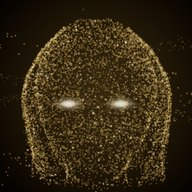
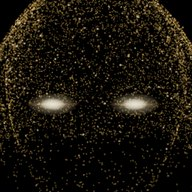
Bigger particle head, just the head (no neck, ends at the chin), no orange light streaks, shorter eye flares; the face moves up for answer cards by its measured size at S21 dimensions

diff --git a/app/src/main/assets/www/index.html b/app/src/main/assets/www/index.html
@@ -261,10 +261,6 @@ const glowTex = makeGlowTexture();
 const flareTex = (() => { const c = document.createElement('canvas'); c.width = 256; c.height = 32; const g = c.getContext('2d');
   const h = g.createLinearGradient(0, 0, 256, 0); h.addColorStop(0, 'rgba(255,200,120,0)'); h.addColorStop(0.5, 'rgba(255,240,210,1)'); h.addColorStop(1, 'rgba(255,200,120,0)');
   g.fillStyle = h; g.fillRect(0, 15, 256, 2); return new THREE.CanvasTexture(c); })();
-const rayTex = (() => { const c = document.createElement('canvas'); c.width = 64; c.height = 64; const g = c.getContext('2d');   // soft on every side; the sprite stretches it tall
-  const v = g.createRadialGradient(32, 32, 0, 32, 32, 32); v.addColorStop(0, 'rgba(255,225,170,1)'); v.addColorStop(1, 'rgba(255,200,120,0)');
-  g.fillStyle = v; g.fillRect(0, 0, 64, 64); return new THREE.CanvasTexture(c); })();
-
 scene.add(new THREE.AmbientLight(0xffffff, 0.55));
 const keyLight = new THREE.DirectionalLight(0xfff2e0, 2.2); keyLight.position.set(3, 7, 6); scene.add(keyLight);
 const fillLight = new THREE.DirectionalLight(0xbcd4ff, 0.9); fillLight.position.set(-4, 5, 5); scene.add(fillLight);
@@ -361,7 +357,7 @@ function makeGoldenParticleFace(model) {
   const pA = new THREE.Vector3(), pB = new THREE.Vector3(), pC = new THREE.Vector3();
   const localA = new THREE.Vector3(), localB = new THREE.Vector3(), localC = new THREE.Vector3();
   let totalArea = 0;
-  const head = model.userData.jvHead, minY = head ? head.neck : 0.18, eyeMeshes = [];
+  const head = model.userData.jvHead, minY = head ? head.neck : 0.18, eyeMeshes = [], span = head ? head.top - head.neck : 1;
   const mid = head ? new THREE.Vector3(head.cx || 0, head.neck + (head.top - head.neck) * 0.55, head.cz || 0) : null, nrm = new THREE.Vector3(), toMid = new THREE.Vector3();
   model.traverse(mesh => {
     if (!(mesh.isMesh || mesh.isSkinnedMesh) || !mesh.geometry || !mesh.geometry.attributes.position) return;
@@ -380,6 +376,7 @@ function makeGoldenParticleFace(model) {
       localA.copy(pA).applyMatrix4(invRoot); localB.copy(pB).applyMatrix4(invRoot); localC.copy(pC).applyMatrix4(invRoot);
       const cy = (localA.y + localB.y + localC.y) / 3;
       if (cy < minY) continue;
+      if (head && cy < head.neck + span * 0.32 && (localA.z + localB.z + localC.z) / 3 < (head.cz || 0) + span * 0.18) continue;   // the neck (low and set back): just the head, down to the chin
       nrm.copy(localB).sub(localA).cross(toMid.copy(localC).sub(localA));
       const area = nrm.length() * 0.5;
       if (area < 1e-9) continue;
@@ -423,11 +420,11 @@ function makeGoldenParticleFace(model) {
       const eye = new THREE.Sprite(new THREE.SpriteMaterial({ map: glowTex, color: 0xfff1d0, transparent: true, depthWrite: false, blending: THREE.AdditiveBlending }));
       eye.position.copy(at); eye.scale.set(r * 1.2, r * 0.55, 1); model.add(eye);   // oval, like a human eye
       const flare = new THREE.Sprite(new THREE.SpriteMaterial({ map: flareTex, color: 0xffc66e, transparent: true, depthWrite: false, blending: THREE.AdditiveBlending }));
-      flare.position.copy(at); flare.scale.set(r * 2.0, r * 0.4, 1); model.add(flare);   // a thin lens flare across each eye
+      flare.position.copy(at); flare.scale.set(r * 1.4, r * 0.35, 1)   /* short: two flares, never one line */; model.add(flare);   // a thin lens flare across each eye
     }
   }
-  if (head) {                                    // the epic part: sparkles on the face, orbiting gold dust, light falling through the dark
-    const span = head.top - head.neck, mid = new THREE.Vector3(cx, head.neck + span * 0.55, head.cz || 0), mat = (size, color) => new THREE.PointsMaterial({
+  if (head) {                                    // the epic part: sparkles on the face and orbiting gold dust
+    const mid = new THREE.Vector3(cx, head.neck + span * 0.55, head.cz || 0), mat = (size, color) => new THREE.PointsMaterial({
       color, size, map: glowTex, transparent: true, opacity: 1, blending: THREE.AdditiveBlending, depthWrite: false, sizeAttenuation: true });
     const spark = [0, 1].map(() => { const n = 110, p = new Float32Array(n * 3);
       for (let i = 0; i < n; i++) { const k = Math.floor(Math.random() * count) * 3; p[i*3] = points[k]; p[i*3+1] = points[k+1]; p[i*3+2] = points[k+2]; }
@@ -443,14 +440,7 @@ function makeGoldenParticleFace(model) {
       const g = new THREE.BufferGeometry(); g.setAttribute('position', new THREE.BufferAttribute(p, 3));
       const ring = new THREE.Points(g, mat(0.014, 0xffcf7a)); ring.frustumCulled = false; ring.rotation.y = Math.random() * 6; orbit.add(ring);
     }
-    const rays = [];
-    for (let i = 0; i < 7; i++) {
-      const ray = new THREE.Sprite(new THREE.SpriteMaterial({ map: rayTex, color: 0xffc66e, transparent: true, depthWrite: false, blending: THREE.AdditiveBlending }));
-      ray.userData.o = 0.15 + Math.random() * 0.3; ray.scale.set(span * 0.05, span * (0.25 + Math.random() * 0.3), 1);
-      ray.position.set(cx + (Math.random() < 0.5 ? -1 : 1) * span * (0.65 + Math.random() * 0.45), mid.y + (Math.random() * 3.2 - 1.6) * span, mid.z - Math.random() * span);
-      model.add(ray); rays.push(ray);
-    }
-    particleFx = { spark, orbit, rays, span, mid };
+    particleFx = { spark, orbit };
   }
   return cloud;
 }
@@ -458,7 +448,7 @@ function makeGoldenParticleFace(model) {
 
 // Finds the head (from the neck to the top) by the model's width, slice by slice from the top down: below the head the
 // width narrows to the neck, then grows at the shoulders (or jumps at outstretched arms). Added by make_www.py.
-const HEAD_UNITS = 1.05, HEAD_CENTER_Y = 4.37;      // where Adam's head has always been
+const HEAD_UNITS = 1.55, HEAD_CENTER_Y = 4.37;      // a big head: the particle face is the whole screen (measured at S21 size)
 function frameByHead(model) {
   try {
     const known = model.userData && model.userData.jvHead;                 // our own faces say where their head is (tools/faces)
@@ -655,7 +645,6 @@ function applyColors() {
     const t = performance.now() / 1000, f = particleFx;
     f.spark.forEach((o, i) => { o.material.opacity = avatarAlpha * (0.55 + 0.45 * Math.sin(t * 1.7 + i * 3.1)); });
     f.orbit.rotation.y = t * 0.12 * currentSpinMul * 2.5; f.orbit.rotation.z = 0.12 * Math.sin(t * 0.2);
-    for (const r of f.rays) { r.position.y -= f.span * 0.003; if (r.position.y < f.mid.y - f.span * 1.8) r.position.y = f.mid.y + f.span * 1.8; r.material.opacity = avatarAlpha * r.userData.o; }
   }
 }
 const _tmpQ = new THREE.Quaternion(), _tmpE = new THREE.Euler();

diff --git a/pc_source/index.html b/pc_source/index.html
@@ -233,10 +233,6 @@ const glowTex = makeGlowTexture();
 const flareTex = (() => { const c = document.createElement('canvas'); c.width = 256; c.height = 32; const g = c.getContext('2d');
   const h = g.createLinearGradient(0, 0, 256, 0); h.addColorStop(0, 'rgba(255,200,120,0)'); h.addColorStop(0.5, 'rgba(255,240,210,1)'); h.addColorStop(1, 'rgba(255,200,120,0)');
   g.fillStyle = h; g.fillRect(0, 15, 256, 2); return new THREE.CanvasTexture(c); })();
-const rayTex = (() => { const c = document.createElement('canvas'); c.width = 64; c.height = 64; const g = c.getContext('2d');   // soft on every side; the sprite stretches it tall
-  const v = g.createRadialGradient(32, 32, 0, 32, 32, 32); v.addColorStop(0, 'rgba(255,225,170,1)'); v.addColorStop(1, 'rgba(255,200,120,0)');
-  g.fillStyle = v; g.fillRect(0, 0, 64, 64); return new THREE.CanvasTexture(c); })();
-
 scene.add(new THREE.AmbientLight(0xffffff, 0.55));
 const keyLight = new THREE.DirectionalLight(0xfff2e0, 2.2); keyLight.position.set(3, 7, 6); scene.add(keyLight);
 const fillLight = new THREE.DirectionalLight(0xbcd4ff, 0.9); fillLight.position.set(-4, 5, 5); scene.add(fillLight);
@@ -333,7 +329,7 @@ function makeGoldenParticleFace(model) {
   const pA = new THREE.Vector3(), pB = new THREE.Vector3(), pC = new THREE.Vector3();
   const localA = new THREE.Vector3(), localB = new THREE.Vector3(), localC = new THREE.Vector3();
   let totalArea = 0;
-  const head = model.userData.jvHead, minY = head ? head.neck : 0.18, eyeMeshes = [];
+  const head = model.userData.jvHead, minY = head ? head.neck : 0.18, eyeMeshes = [], span = head ? head.top - head.neck : 1;
   const mid = head ? new THREE.Vector3(head.cx || 0, head.neck + (head.top - head.neck) * 0.55, head.cz || 0) : null, nrm = new THREE.Vector3(), toMid = new THREE.Vector3();
   model.traverse(mesh => {
     if (!(mesh.isMesh || mesh.isSkinnedMesh) || !mesh.geometry || !mesh.geometry.attributes.position) return;
@@ -352,6 +348,7 @@ function makeGoldenParticleFace(model) {
       localA.copy(pA).applyMatrix4(invRoot); localB.copy(pB).applyMatrix4(invRoot); localC.copy(pC).applyMatrix4(invRoot);
       const cy = (localA.y + localB.y + localC.y) / 3;
       if (cy < minY) continue;
+      if (head && cy < head.neck + span * 0.32 && (localA.z + localB.z + localC.z) / 3 < (head.cz || 0) + span * 0.18) continue;   // the neck (low and set back): just the head, down to the chin
       nrm.copy(localB).sub(localA).cross(toMid.copy(localC).sub(localA));
       const area = nrm.length() * 0.5;
       if (area < 1e-9) continue;
@@ -395,11 +392,11 @@ function makeGoldenParticleFace(model) {
       const eye = new THREE.Sprite(new THREE.SpriteMaterial({ map: glowTex, color: 0xfff1d0, transparent: true, depthWrite: false, blending: THREE.AdditiveBlending }));
       eye.position.copy(at); eye.scale.set(r * 1.2, r * 0.55, 1); model.add(eye);   // oval, like a human eye
       const flare = new THREE.Sprite(new THREE.SpriteMaterial({ map: flareTex, color: 0xffc66e, transparent: true, depthWrite: false, blending: THREE.AdditiveBlending }));
-      flare.position.copy(at); flare.scale.set(r * 2.0, r * 0.4, 1); model.add(flare);   // a thin lens flare across each eye
+      flare.position.copy(at); flare.scale.set(r * 1.4, r * 0.35, 1)   /* short: two flares, never one line */; model.add(flare);   // a thin lens flare across each eye
     }
   }
-  if (head) {                                    // the epic part: sparkles on the face, orbiting gold dust, light falling through the dark
-    const span = head.top - head.neck, mid = new THREE.Vector3(cx, head.neck + span * 0.55, head.cz || 0), mat = (size, color) => new THREE.PointsMaterial({
+  if (head) {                                    // the epic part: sparkles on the face and orbiting gold dust
+    const mid = new THREE.Vector3(cx, head.neck + span * 0.55, head.cz || 0), mat = (size, color) => new THREE.PointsMaterial({
       color, size, map: glowTex, transparent: true, opacity: 1, blending: THREE.AdditiveBlending, depthWrite: false, sizeAttenuation: true });
     const spark = [0, 1].map(() => { const n = 110, p = new Float32Array(n * 3);
       for (let i = 0; i < n; i++) { const k = Math.floor(Math.random() * count) * 3; p[i*3] = points[k]; p[i*3+1] = points[k+1]; p[i*3+2] = points[k+2]; }
@@ -415,14 +412,7 @@ function makeGoldenParticleFace(model) {
       const g = new THREE.BufferGeometry(); g.setAttribute('position', new THREE.BufferAttribute(p, 3));
       const ring = new THREE.Points(g, mat(0.014, 0xffcf7a)); ring.frustumCulled = false; ring.rotation.y = Math.random() * 6; orbit.add(ring);
     }
-    const rays = [];
-    for (let i = 0; i < 7; i++) {
-      const ray = new THREE.Sprite(new THREE.SpriteMaterial({ map: rayTex, color: 0xffc66e, transparent: true, depthWrite: false, blending: THREE.AdditiveBlending }));
-      ray.userData.o = 0.15 + Math.random() * 0.3; ray.scale.set(span * 0.05, span * (0.25 + Math.random() * 0.3), 1);
-      ray.position.set(cx + (Math.random() < 0.5 ? -1 : 1) * span * (0.65 + Math.random() * 0.45), mid.y + (Math.random() * 3.2 - 1.6) * span, mid.z - Math.random() * span);
-      model.add(ray); rays.push(ray);
-    }
-    particleFx = { spark, orbit, rays, span, mid };
+    particleFx = { spark, orbit };
   }
   return cloud;
 }
@@ -575,7 +565,6 @@ function applyColors() {
     const t = performance.now() / 1000, f = particleFx;
     f.spark.forEach((o, i) => { o.material.opacity = avatarAlpha * (0.55 + 0.45 * Math.sin(t * 1.7 + i * 3.1)); });
     f.orbit.rotation.y = t * 0.12 * currentSpinMul * 2.5; f.orbit.rotation.z = 0.12 * Math.sin(t * 0.2);
-    for (const r of f.rays) { r.position.y -= f.span * 0.003; if (r.position.y < f.mid.y - f.span * 1.8) r.position.y = f.mid.y + f.span * 1.8; r.material.opacity = avatarAlpha * r.userData.o; }
   }
 }
 const _tmpQ = new THREE.Quaternion(), _tmpE = new THREE.Euler();

diff --git a/app/src/main/assets/www/local/ui.js b/app/src/main/assets/www/local/ui.js
@@ -340,9 +340,10 @@ export function greeting(h) { return h < 5 ? 'Good night' : h < 12 ? 'Good morni
 
 /** How far to lift and shrink the face so it clears the answer card: { ty, s } in px and scale. */
 export function faceHalf(W, H) { return W < H ? 0.30 * W : 0.135 * H; }   // the 3D camera keeps the face ~0.6 of the width wide on a portrait phone
-export function stageFor({ H, W = H * 0.45, cardTop, safeTop = 0, cy = 0.51 }) {
+// the particle head (chin to crown) as measured at S21 size (360x756): ~0.47 of the width tall each side of its middle (0.5 leaves the sparse chin room), at 0.54 down
+export function stageFor({ H, W = H * 0.45, cardTop, safeTop = 0, cy = 0.54 }) {
   if (!cardTop || cardTop >= H) return { ty: 0, s: 1 };
-  const hh = faceHalf(W, H), topLimit = safeTop + 64, gap = 12;
+  const hh = W < H ? 0.5 * W : 0.21 * H, topLimit = safeTop + 64, gap = 14;
   const centre = s => H / 2 + (H * cy - H / 2) * s;                // the camera zooms about the middle of the screen
   let s = 0.88, ty = Math.min(0, (cardTop - gap) - (centre(s) + hh * s));
   if (centre(s) - hh * s + ty < topLimit) {                         // not enough room even lifted: shrink to fit between the top bar and the card

diff --git a/tools/make_www.py b/tools/make_www.py
@@ -40,7 +40,7 @@ MOBILE_CSS = r"""
 FRAME_BY_HEAD = r"""
 // Finds the head (from the neck to the top) by the model's width, slice by slice from the top down: below the head the
 // width narrows to the neck, then grows at the shoulders (or jumps at outstretched arms). Added by make_www.py.
-const HEAD_UNITS = 1.05, HEAD_CENTER_Y = 4.37;      // where Adam's head has always been
+const HEAD_UNITS = 1.55, HEAD_CENTER_Y = 4.37;      // a big head: the particle face is the whole screen (measured at S21 size)
 function frameByHead(model) {
   try {
     const known = model.userData && model.userData.jvHead;                 // our own faces say where their head is (tools/faces)
